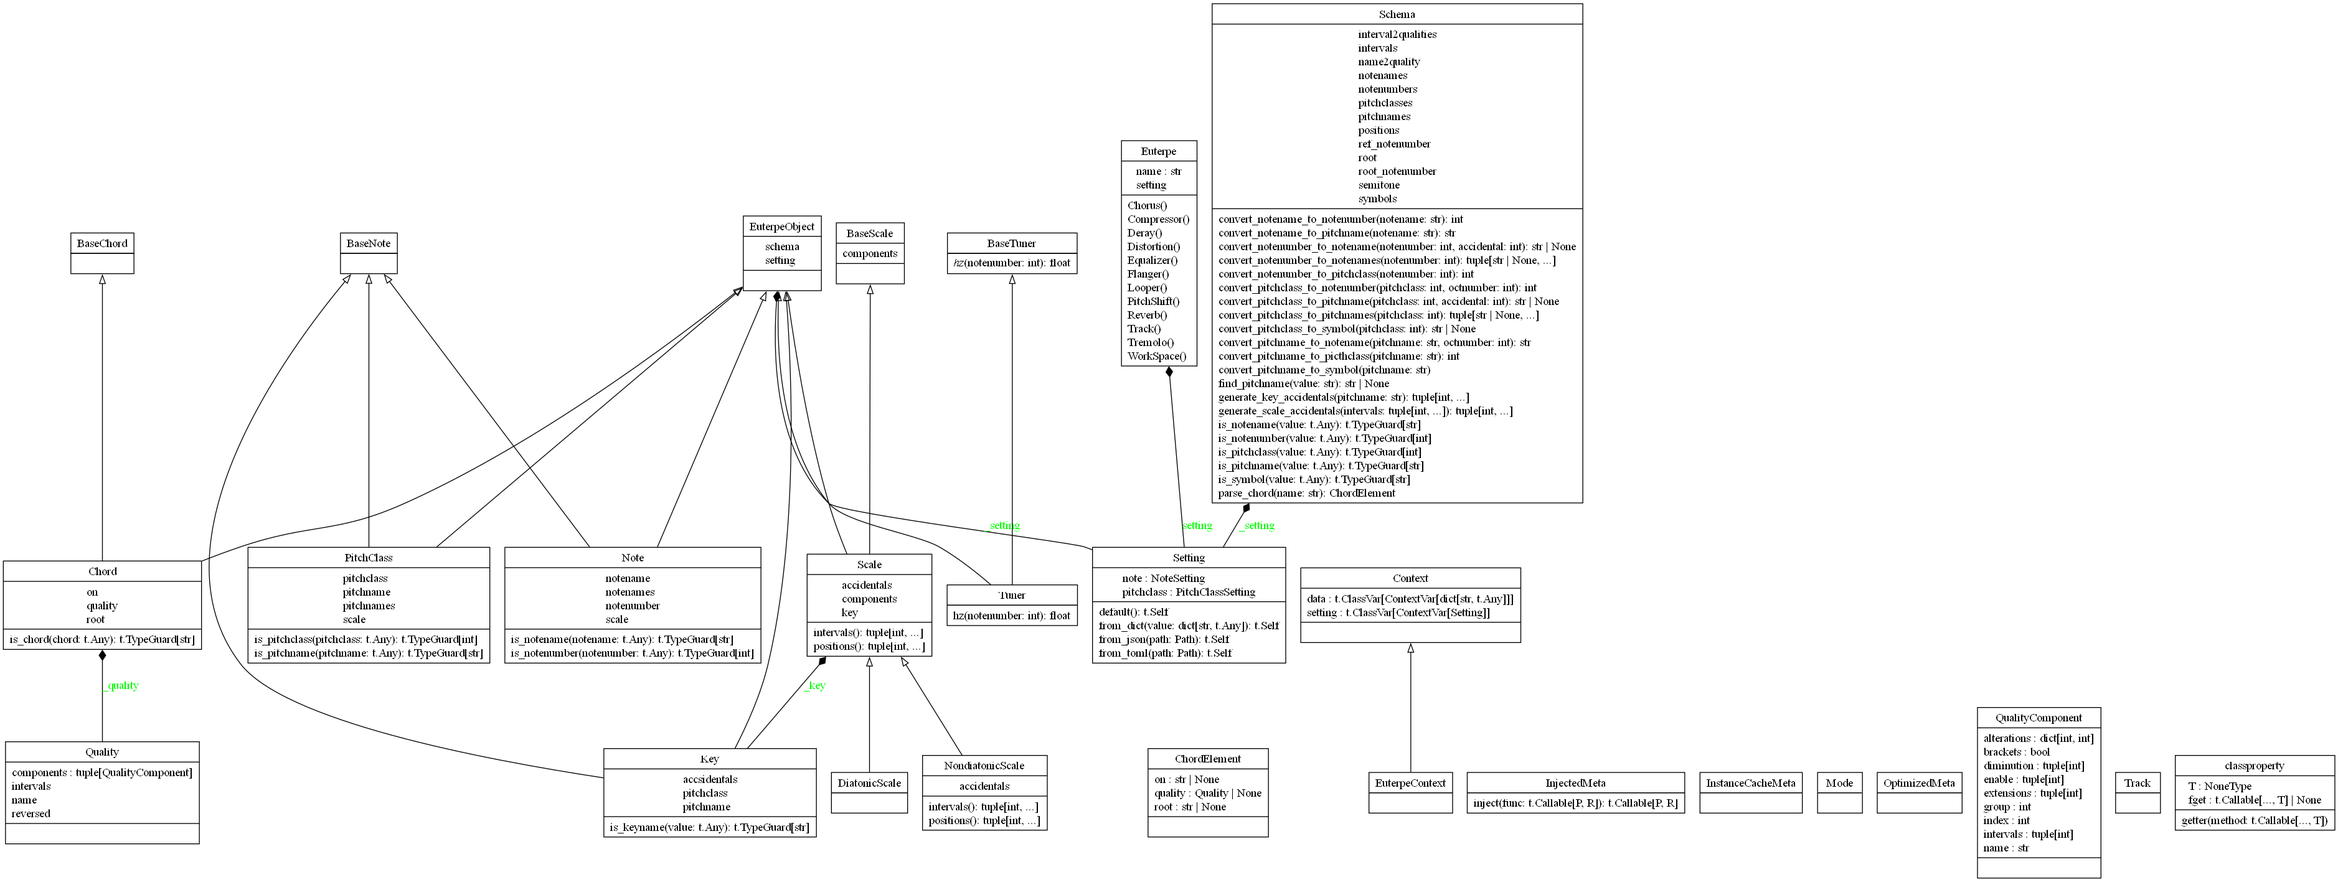
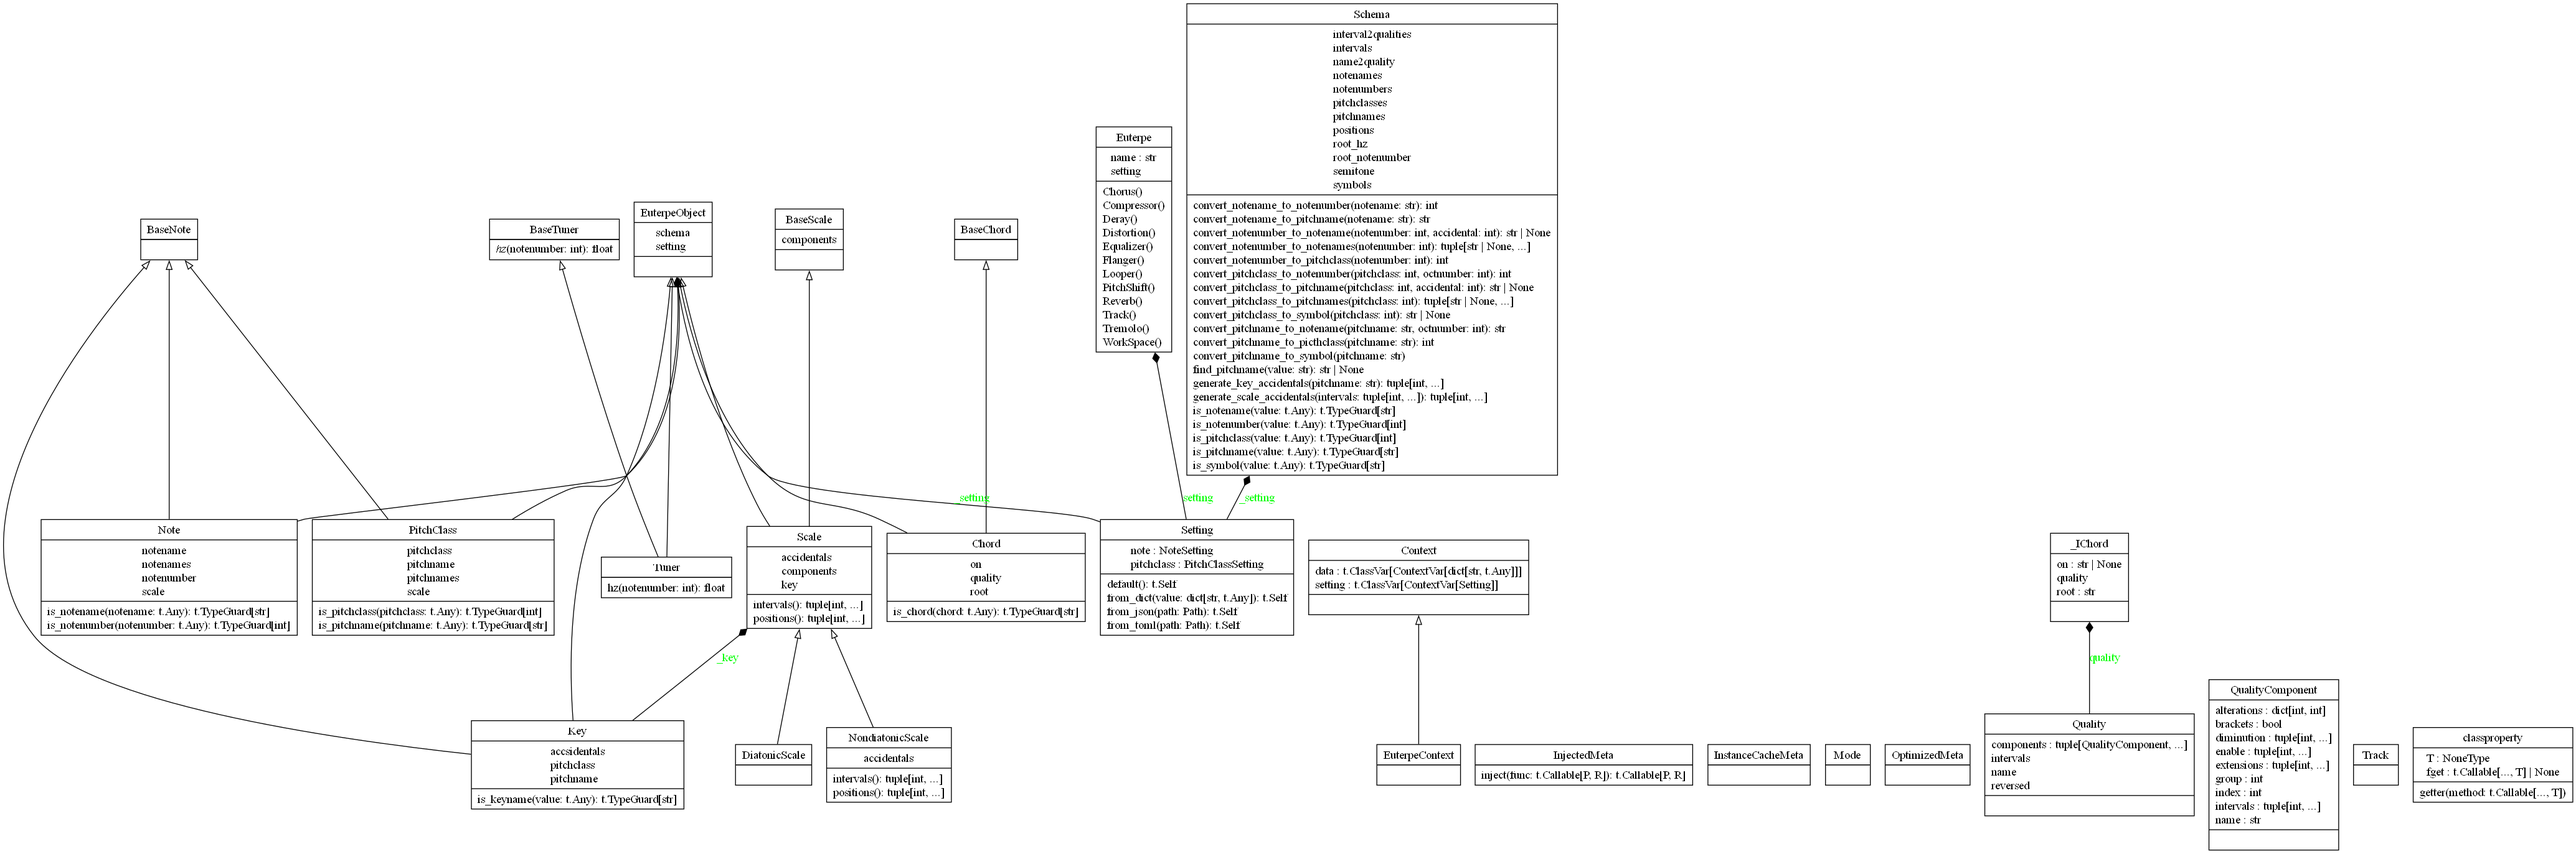
微修正

diff --git a/src/euterpe/_core/schema.py b/src/euterpe/_core/schema.py
@@ -16,12 +16,6 @@ if TYPE_CHECKING:
     from ..chord.quality import Quality
 
 
-class ChordElement(t.TypedDict):
-    root: str | None
-    on: str | None
-    quality: Quality | None
-
-
 @dataclass(frozen=True, init=False)
 class Schema(metaclass=InstanceCacheMeta):
 
@@ -84,13 +78,6 @@ class Schema(metaclass=InstanceCacheMeta):
         )
         return (finded + [None])[0]
 
-    def convert_pitchclass_to_symbol(self, pitchclass: int) -> str | None:
-        if not self.is_pitchclass(pitchclass):
-            raise ValueError(f"Invalid pitchclass: '{pitchclass}'.")
-        return self.convert_pitchclass_to_pitchnames(pitchclass)[
-            self._setting.pitchclass.accidental.limit
-        ]
-
     def convert_pitchclass_to_pitchname(
         self, pitchclass: int, accidental: int
     ) -> str | None:
@@ -112,6 +99,13 @@ class Schema(metaclass=InstanceCacheMeta):
             raise ValueError(f"Invalid pitchname: '{pitchname}'.")
         return self._pitchclass.name2class[pitchname]
 
+    def convert_pitchclass_to_symbol(self, pitchclass: int) -> str | None:
+        if not self.is_pitchclass(pitchclass):
+            raise ValueError(f"Invalid pitchclass: '{pitchclass}'.")
+        return self.convert_pitchclass_to_pitchnames(pitchclass)[
+            self._setting.pitchclass.accidental.limit
+        ]
+
     def convert_pitchname_to_symbol(self, pitchname: str):
         if not self.is_pitchname(pitchname):
             raise ValueError(f"Invalid pitchname: '{pitchname}'.")
@@ -131,10 +125,6 @@ class Schema(metaclass=InstanceCacheMeta):
     """
     Note
     """
-
-    @property
-    def ref_notenumber(self) -> int:
-        return self._setting.note.presentation.reference.number
 
     @cached_property
     def notenames(self) -> tuple[str, ...]:
@@ -176,7 +166,7 @@ class Schema(metaclass=InstanceCacheMeta):
     """
 
     @property
-    def root(self) -> float:
+    def root_hz(self) -> float:
         return self._setting.note.tuner.reference.hz
 
     @property
@@ -212,18 +202,6 @@ class Schema(metaclass=InstanceCacheMeta):
                 DEFAULT_QUALITY_COMPONENTS, DEFAULT_QUALITY_VALIDATOR
             )
         }
-
-    def parse_chord(self, name: str) -> ChordElement:
-        root = self.find_pitchname(name)
-        rest = name.replace(root, "", 1)
-        if rest.find("/") >= 0:
-            quality, on = rest.split("/", 1)
-            quality = self.name2quality.get(quality, None)
-            on = self.find_pitchname(on)
-        else:
-            quality = self.name2quality.get(rest, None)
-            on = None
-        return {"root": root, "on": on, "quality": quality}
 
     """
     Extension

diff --git a/src/euterpe/chord/implements/quality.py b/src/euterpe/chord/implements/quality.py
@@ -3,13 +3,13 @@ import typing as t
 from ..quality import QualityComponent
 
 
-def validate(components: tuple[QualityComponent]) -> bool:
+def validate(components: tuple[QualityComponent, ...]) -> bool:
 
-    def validate_empty(components: tuple[QualityComponent]):
+    def validate_empty(components: tuple[QualityComponent, ...]):
         return not len(components) == 0
 
-    def validate_enable(reversed: tuple[QualityComponent]):
-        enable: tuple[int] = ()
+    def validate_enable(reversed: tuple[QualityComponent, ...]):
+        enable: tuple[int, ...] = tuple()
         for rc in reversed:
             if all(z[0] == z[1] for z in zip(enable, rc.enable)):
                 if len(enable) < len(rc.enable):
@@ -18,7 +18,7 @@ def validate(components: tuple[QualityComponent]) -> bool:
                 return False
         return True
 
-    def validate_alternations(reversed: tuple[QualityComponent]):
+    def validate_alternations(reversed: tuple[QualityComponent, ...]):
         # allowed quality
         if any(True for rc in reversed if rc.name == "dim"):
             return True
@@ -46,8 +46,8 @@ def validate(components: tuple[QualityComponent]) -> bool:
     )
 
 
-DEFAULT_QUALITY_VALIDATOR: t.Callable[[tuple[QualityComponent]], bool] = validate
-DEFAULT_QUALITY_COMPONENTS: t.Final[tuple[QualityComponent]] = (
+DEFAULT_QUALITY_VALIDATOR: t.Callable[[tuple[QualityComponent, ...]], bool] = validate
+DEFAULT_QUALITY_COMPONENTS: t.Final[tuple[QualityComponent, ...]] = (
     QualityComponent(
         "",
         1,

diff --git a/src/euterpe/chord/chord.py b/src/euterpe/chord/chord.py
@@ -1,8 +1,35 @@
+from __future__ import annotations
+
 import typing as t
 
 from .._core import EuterpeObject
 from ._base import BaseChord
 from .quality import Quality
+
+
+class _IChord(t.TypedDict):
+    root: str
+    quality: Quality
+    on: str | None
+
+
+def parse(name: str, instance: Chord) -> _IChord | None:
+    if (root := instance.schema.find_pitchname(name)) is None:
+        return None
+
+    rest = name.replace(root, "", 1)
+    if rest.find("/") >= 0:
+        quality, on = rest.split("/", 1)
+        quality = instance.schema.name2quality.get(quality, None)
+        on = instance.schema.find_pitchname(on)
+    else:
+        quality = instance.schema.name2quality.get(rest, None)
+        on = None
+
+    if quality is None:
+        return None
+
+    return {"root": root, "on": on, "quality": quality}
 
 
 class Chord(BaseChord, EuterpeObject):
@@ -14,15 +41,10 @@ class Chord(BaseChord, EuterpeObject):
     def __init__(self, identify: str, **kwargs):
         super().__init__(**kwargs)
 
-        parsed = self.schema.parse_chord(identify)
-        root = parsed["root"]
-        on = parsed["on"]
-        quality = parsed["quality"]
-
-        if all([root, quality]):
-            self._root = root
-            self._quality = quality
-            self._on = on
+        if (parsed := parse(identify, self)) is not None:
+            self._root = parsed["root"]
+            self._quality = parsed["quality"]
+            self._on = parsed["on"]
 
         else:
             raise ValueError()

diff --git a/src/run.py b/src/run.py
@@ -12,25 +12,25 @@ def track1():
     # ab5 = Chord("Abbm7(b5)/E")
     # print(ab5.root, ab5.quality.name, ab5.on)
 
-    # pprint(Tuner.mro())
-    # pprint(Dorian(Key("C")).components)
-    # pprint(Dorian(Key("F#")).components)
-    # pprint(Dorian(Key("Gb")).components)
+    pprint(Tuner.mro())
+    pprint(Note("C#4").notenames)
+    pprint(Dorian(Key("F#")).components)
+    pprint(Dorian(Key("Gb")).components)
     
 
-    # pprint(Pentatonic.intervals)
-    # pprint(Pentatonic.positions)
-    # pprint(Pentatonic(Key("Gb")).accidentals)
-    # pprint(Pentatonic(Key("Gb")).components)
-    # pprint(MinorPentatonic.intervals)
-    # pprint(MinorPentatonic.positions)
-    # pprint(Ionian(Key("F#")).accidentals)
-    # pprint(Pentatonic(Key("F#")).components)
-    # pprint(MinorPentatonic(Key("F#")).components)
+    pprint(Pentatonic.intervals)
+    pprint(Pentatonic.positions)
+    pprint(Pentatonic(Key("Gb")).accidentals)
+    pprint(Pentatonic(Key("Gb")).components)
+    pprint(MinorPentatonic.intervals)
+    pprint(MinorPentatonic.positions)
+    pprint(Ionian(Key("F#")).accidentals)
+    pprint(Pentatonic(Key("F#")).components)
+    pprint(MinorPentatonic(Key("F#")).components)
 
-    for key in Note("C#4").schema.pitchnames:
-        if len(key) < 3:
-            print(key)
-            pprint(Wholetone(Key(key)).components)
+    # for key in Note("C#4").schema.pitchnames:
+    #     if len(key) < 3:
+    #         print(key)
+    #         pprint(Wholetone(Key(key)).components)
 
 track1()

diff --git a/src/euterpe/chord/quality.py b/src/euterpe/chord/quality.py
@@ -6,10 +6,10 @@ class QualityComponent:
     name: str
     group: int
     index: int
-    intervals: tuple[int]
-    diminution: tuple[int]
-    enable: tuple[int] = field(default_factory=tuple)
-    extensions: tuple[int] = field(default_factory=tuple)
+    intervals: tuple[int, ...]
+    diminution: tuple[int, ...]
+    enable: tuple[int, ...] = field(default_factory=tuple)
+    extensions: tuple[int, ...] = field(default_factory=tuple)
     alterations: dict[int, int] = field(default_factory=dict)
     brackets: bool = field(default=False)
 
@@ -21,7 +21,7 @@ class QualityComponent:
 
 @dataclass(frozen=True, slots=True)
 class Quality:
-    components: tuple[QualityComponent]
+    components: tuple[QualityComponent, ...]
 
     @property
     def name(self) -> str:
@@ -44,7 +44,7 @@ class Quality:
         return name
 
     @property
-    def intervals(self) -> tuple[int]:
+    def intervals(self) -> tuple[int, ...]:
         intervals: list[int] = []
         extensions: set[int] = set()
         alterations: dict[int, int] = {}
@@ -65,7 +65,7 @@ class Quality:
         return tuple(intervals)
 
     @property
-    def reversed(self):
+    def reversed(self) -> tuple[QualityComponent, ...]:
         return tuple(
             sorted(self.components, key=lambda c: (c.group, c.index), reverse=True)
         )

diff --git a/src/euterpe/chord/processing/generator.py b/src/euterpe/chord/processing/generator.py
@@ -6,12 +6,12 @@ from ..quality import Quality, QualityComponent
 
 
 class QualityGenerator:
-    components: tuple[QualityComponent]
+    components: tuple[QualityComponent, ...]
 
     def __init__(
         self,
-        components: tuple[QualityComponent],
-        validator: t.Callable[[tuple[QualityComponent]], bool],
+        components: tuple[QualityComponent, ...],
+        validator: t.Callable[[tuple[QualityComponent, ...]], bool],
     ):
         self.components = components
         self.validator = validator
@@ -29,8 +29,8 @@ class QualityGenerator:
 
     @classmethod
     def partition_by_group(
-        cls, components: tuple[QualityComponent]
-    ) -> tuple[tuple[QualityComponent]]:
+        cls, components: tuple[QualityComponent, ...]
+    ) -> tuple[tuple[QualityComponent, ...], ...]:
         groups = defaultdict(list)
         for c in components:
             groups[c.group].append(c)
@@ -38,8 +38,8 @@ class QualityGenerator:
 
     @classmethod
     def partition_by_index(
-        cls, components: tuple[QualityComponent]
-    ) -> tuple[tuple[QualityComponent]]:
+        cls, components: tuple[QualityComponent, ...]
+    ) -> tuple[tuple[QualityComponent, ...], ...]:
         groups = defaultdict(list)
         for c in components:
             groups[c.index].append(c)

diff --git a/src/euterpe/_core/object.py b/src/euterpe/_core/object.py
@@ -20,7 +20,7 @@ class EuterpeObject(metaclass=EuterpeObjectMeta):
             raise TypeError("EuterpeObject cannot be instantiated directly.")
         return super().__new__(cls)
 
-    def __init__(self, setting: t.Optional[Setting] = None) -> None:
+    def __init__(self, setting: Setting | None = None) -> None:
         if not isinstance(setting, Setting):
             raise ValueError(
                 "Initialization error: 'setting' argument is missing. "

diff --git a/src/euterpe/tuner/tuner.py b/src/euterpe/tuner/tuner.py
@@ -24,7 +24,7 @@ class Tuner(BaseTuner, EuterpeObject):
         rel = notenumber - self.schema.root_notenumber
         octnumber = rel // self.schema.semitone
         pitchclass = rel % self.schema.semitone
-        return self.schema.root * (2**octnumber) * self._ratios[pitchclass]
+        return self.schema.root_hz * (2**octnumber) * self._ratios[pitchclass]
 
     def __eq__(self, other: t.Any) -> bool:
         if not isinstance(other, Tuner):

diff --git a/src/euterpe/_core/utils/calculation.py b/src/euterpe/_core/utils/calculation.py
@@ -1,7 +1,4 @@
-import typing as t
-
-
-def wrapped_diff(lhs: int, rhs: int, max: t.Optional[int] = None) -> int:
+def wrapped_diff(lhs: int, rhs: int, max: int | None = None) -> int:
     if max is not None:
         result1 = lhs - rhs
         result2 = (lhs + (max if lhs < rhs else 0)) - (rhs + (max if lhs > rhs else 0))

diff --git a/tests/euterpe/conftest.py b/tests/euterpe/conftest.py
@@ -14,7 +14,6 @@ SETTING_DICT_FOR_HSYS12 = {
     "note": {
         "notenumber": {"min": 0, "max": 127},
         "presentation": {
-            "name": "scientific pitch notation",
             "symbols": [
                 "<N>-1",
                 "<N>0",

diff --git a/src/euterpe/_core/settings/note.py b/src/euterpe/_core/settings/note.py
@@ -21,7 +21,6 @@ class NoteNumberSetting:
 
 @dataclass(frozen=True, slots=True)
 class NotePresentationSetting:
-    name: str
     symbols: tuple[str]
     reference: NotePresentationReferenceSetting
 
